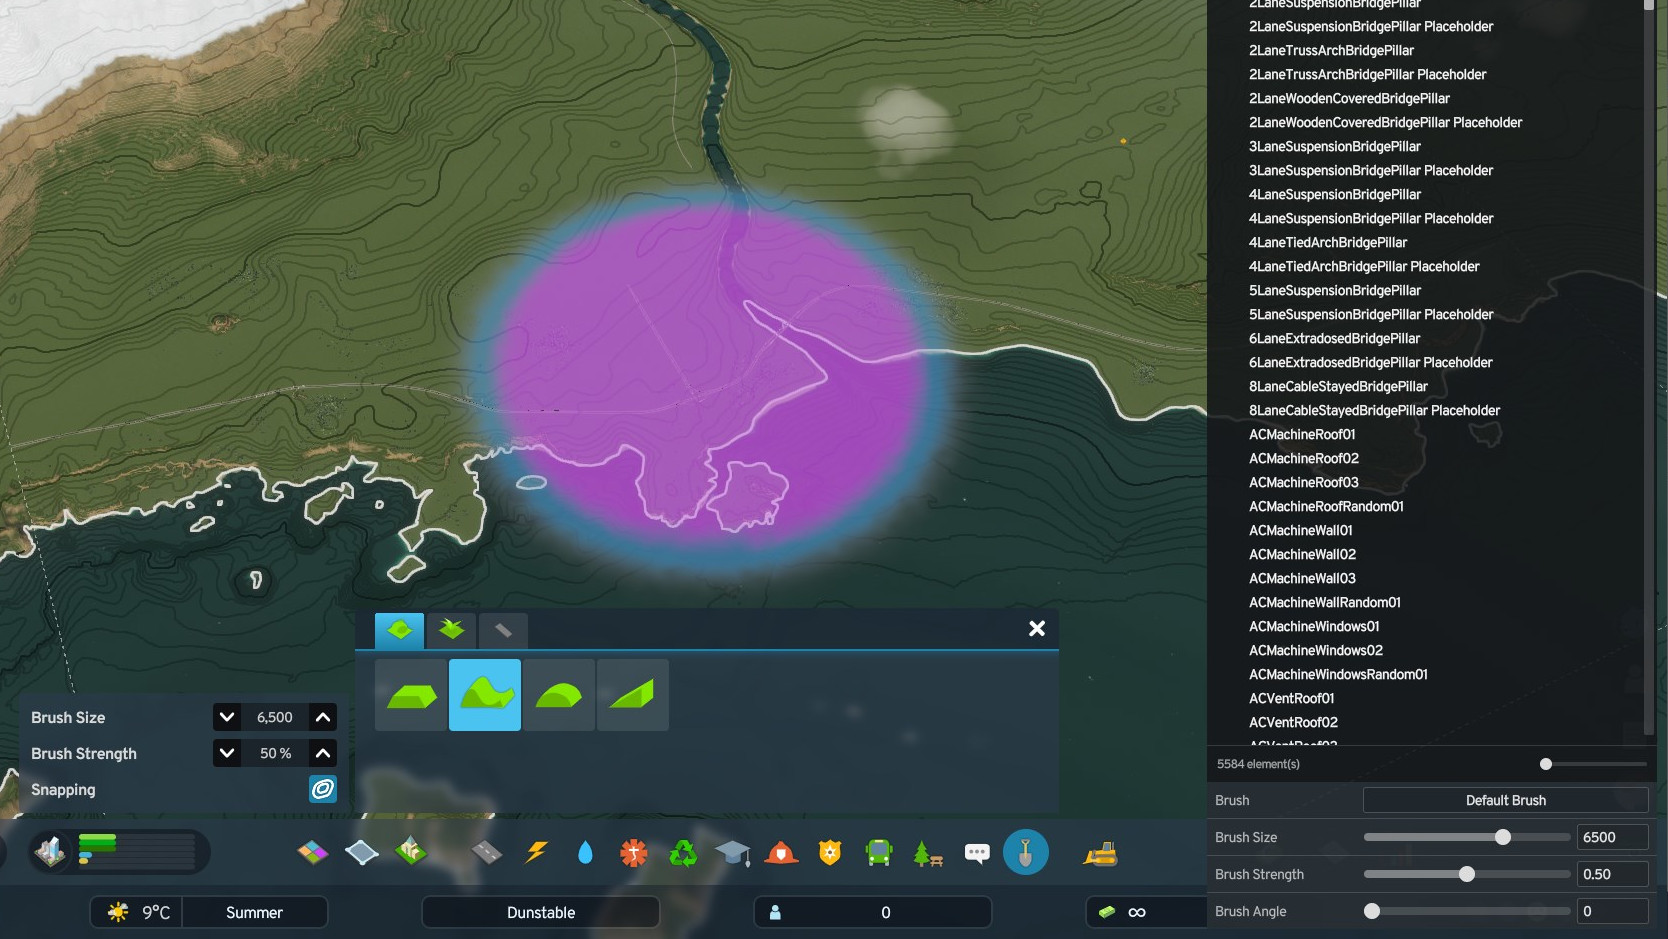
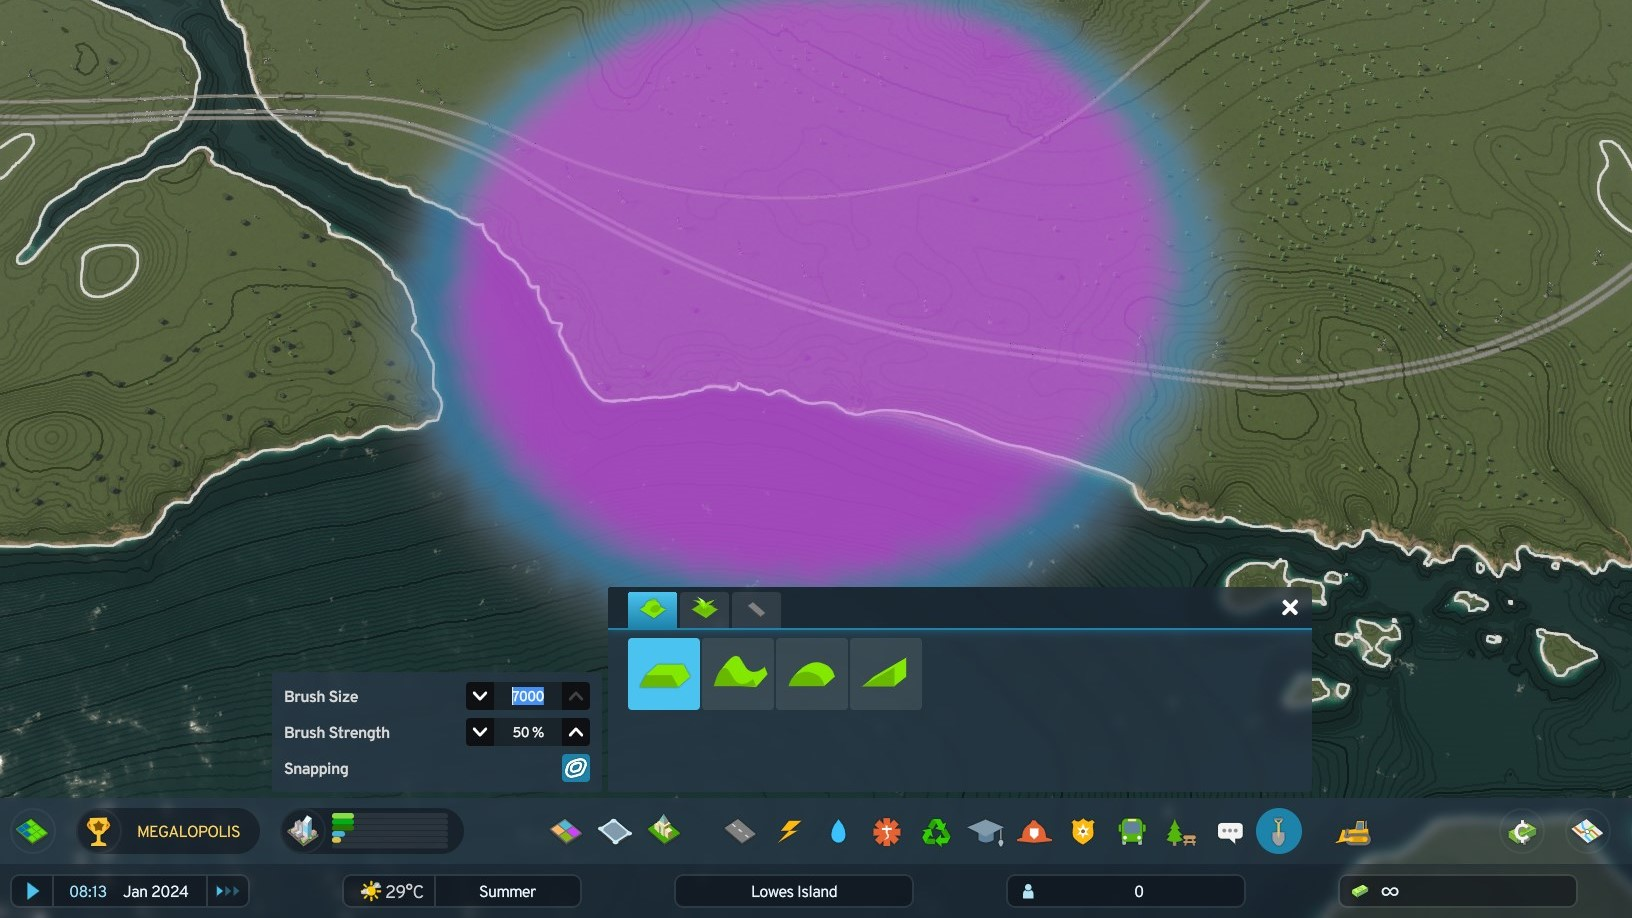
remove patch for devui slider as it doesn't exist anymore

diff --git a/Systems/BrushSizeUnlimiterSystem.cs b/Systems/BrushSizeUnlimiterSystem.cs
@@ -14,25 +14,8 @@ namespace BrushSizeUnlimiter.Systems
         protected override void OnCreate()
         {
             base.OnCreate();
-            SetDevUIMaxBrushSize();
         }
 
-        public void SetDevUIMaxBrushSize()
-        {
-            int maxSize = 10000;
-            if (Mod.Options != null)
-            {
-                maxSize = (int)Mod.Options.MaxBrushSize;
-            }
-
-            FieldInfo field = typeof(EditorToolOptionsUISystem).GetField("m_BrushOptions", BindingFlags.NonPublic | BindingFlags.Instance);
-            List<IWidget> m_BrushOptions = (List<IWidget>)field.GetValue(World.GetExistingSystemManaged<EditorToolOptionsUISystem>());
-
-            if (m_BrushOptions != null)
-            {
-                m_BrushOptions.OfType<IntSliderField>().First().max = maxSize;
-            }
-        }
         protected override void OnUpdate() { }
     }
 }

diff --git a/Options.cs b/Options.cs
@@ -32,8 +32,6 @@ namespace BrushSizeUnlimiter
             set
             {
                 _maxBrushSize = value;
-                m_brushSizeUnlimiterSystem = World.DefaultGameObjectInjectionWorld?.GetOrCreateSystemManaged<BrushSizeUnlimiterSystem>();
-                m_brushSizeUnlimiterSystem.SetDevUIMaxBrushSize();
                 MakeSureSave = new Random().Next();
             }
         }
